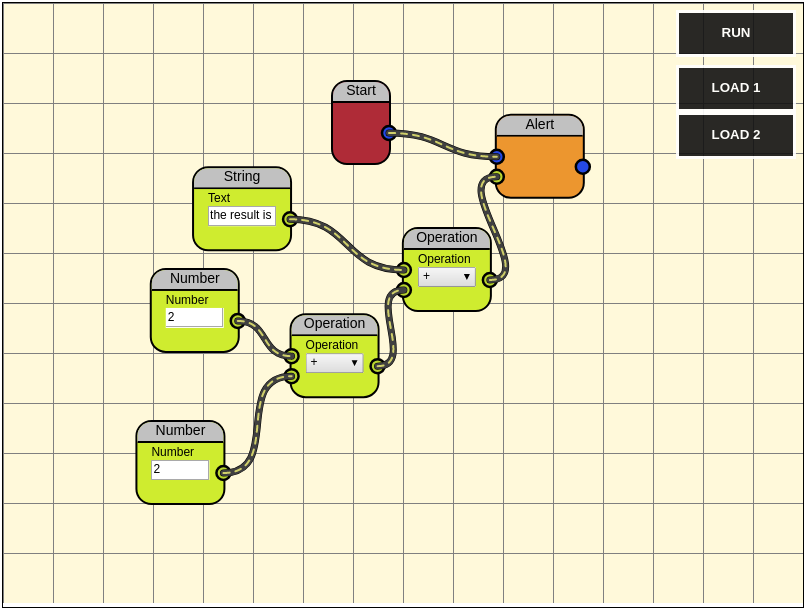
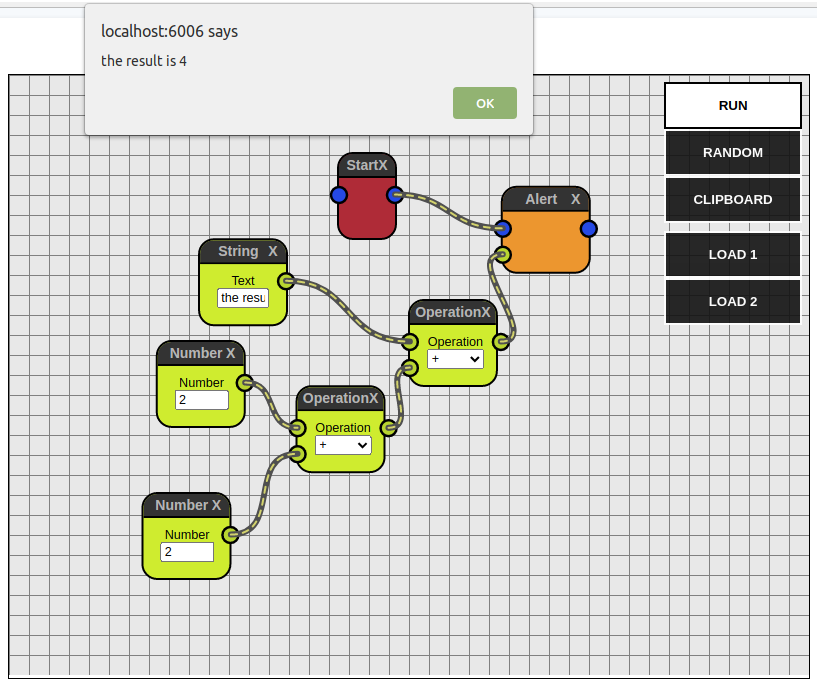
add initial support for nodejs runner

diff --git a/src/nodes/nodejs.ts b/src/nodes/nodejs.ts
@@ -1,0 +1,64 @@
+import { NodeConfig } from '../Node'
+
+const nodeMap: Record<string, NodeConfig> = {
+  'console': {
+    id: 'console',
+    fill: '#F5E867',
+    ports: { data_in: 2, data_out: 0, flow_in: 1, flow_out: 1 },
+    title: 'console',
+    gui: {
+      op: { label: 'action', type: 'select', options: ['log', 'info'] },
+      value: { label: 'value', type: 'text' },
+    },
+    async behavior (findById, { board }) {
+      let op = this.inputs.op;
+      const portConn = this._ports['in'][0].connections[0];
+      const portNode = portConn && findById(portConn.nodeId);
+      if (portNode) {
+        op = portNode.behavior(findById)[portConn.id];
+      }
+
+      let value = JSON.parse(this.inputs.value);
+      const valueConn = this._ports['in'][1].connections[0];
+      const valueNode = valueConn && findById(valueConn.nodeId);
+      if (valueNode) {
+        value = (await valueNode.behavior(findById, { board }))[valueConn.id];
+      }
+
+      console[op](value);
+      return 0;
+    }
+  },
+  'readQuestion': {
+    fill: '#FF8D4F',
+    ports: { data_in: 1, data_out: 1, flow_in: 0, flow_out: 0 },
+    title: 'readQuestion',
+    gui: {
+      message: { label: 'message', type: 'text' },
+    },
+    async behavior (findById, { board }) {
+      let message = this.inputs.message;
+      const portConn = this._ports['in'][0].connections[0];
+      const portNode = portConn && findById(portConn.nodeId);
+      if (portNode) {
+        message = portNode.behavior(findById)[portConn.id];
+      }
+
+      const readline = require('readline');
+      return new Promise(resolve => {
+        const rl = readline.createInterface({
+          input: process.stdin,
+          output: process.stdout
+        });
+
+        rl.question(message, (value) => {
+          rl.on('close', () => resolve([value]));
+          rl.close();
+        });
+      })
+
+    }
+  },
+};
+
+export default nodeMap;

diff --git a/stories/examples.stories.js b/stories/examples.stories.js
@@ -11,11 +11,21 @@ storiesOf('Examples', module)
       <div id="test">
         <Container
           onLoad={canvas => {
-            const initialNodes = ['SourceNumber', 'SourceNumber', 'Alert', 'Sum', 'Operation', 'Operation', 'If', 'SourceString'];
+            const initialNodes = ['SourceNumber', 'SourceNumber', 'Alert', 'Operation', 'Operation', 'If', 'SourceString', 'console', 'readQuestion'];
 
 
             document.getElementById('run').onclick = function() {
               canvas.run();
+            };
+
+            document.getElementById('clipboard').onclick = function() {
+              const json = canvas.toJSON();
+              navigator.clipboard.writeText(JSON.stringify(json, null, 2));
+            };
+
+            document.getElementById('run').onclick = function() {
+              canvas.run();
+              canvas.toJSON();
             };
 
             document.getElementById('random').onclick = function() {
@@ -52,6 +62,7 @@ storiesOf('Examples', module)
       <ul className="button-list">
         <li><button id="run" type="button">run</button></li>
         <li><button id="random" type="button">random</button></li>
+        <li><button id="clipboard" type="button">clipboard</button></li>
         <li className="separator"></li>
         <li><button className="load" type="button" data-index="0">load 1</button></li>
         <li><button className="load" type="button" data-index="1">load 2</button></li>

diff --git a/src/Wirer.ts b/src/Wirer.ts
@@ -6,6 +6,7 @@ import Node from './Node';
 import Render from './Render';
 import BaseWire from './BaseWire';
 import standardNodes from './nodes/standard';
+import nodeJsNodes from './nodes/nodejs';
 import behaviorRunner from './behaviorRunner';
 import { toJSON } from './jsonLoader';
 
@@ -195,4 +196,5 @@ export default class Wirer {
   }
 }
 
-Wirer._refNodes = standardNodes || {};
+// TODO: load nodejs nodes dinamically
+Wirer._refNodes = { ...standardNodes, ...nodeJsNodes };

diff --git a/.storybook/main.js b/.storybook/main.js
@@ -8,6 +8,18 @@ module.exports = {
   },
   webpackFinal: (config) => {
     config.module.rules.push(custom.module.rules[0]);
+    config.resolve.fallback = {
+      "fs": false,
+      "tls": false,
+      "net": false,
+      "path": false,
+      "zlib": false,
+      "http": false,
+      "https": false,
+      "stream": false,
+      "crypto": false,
+      "readline": false,
+    }
     return config;
   },
 };

diff --git a/src/jsonLoader.js b/src/jsonLoader.js
@@ -26,6 +26,5 @@ export const toJSON = (nodes, nodeRefs) => {
   );
 
   const string = JSON.stringify({ refNode, fluxgram }, null, 2);
-  copy(string);
   return JSON.parse(string);
 } 

diff --git a/README.md b/README.md
@@ -7,13 +7,10 @@
 ## Introduction
 **Wirer** is a generalist approach for building user interfaces around the idea of connectable nodes. **Wirer** allows you to customize the UI to better fit your needs via **React** components. You can also create and register your own nodes to achieve the goals of your application and let your users play with it.
 
-## Features
-Apart from handling all node dragging interactions, **Wirer** offers the following features:
-- [Zoom In and Out](http://ja0n.github.io/wirer/?path=/story/features--zoom)
-- [Offset System](http://ja0n.github.io/wirer/?path=/story/features--recenter)
+The **Runner** works both on browser and on Node.js.
 
 ## Examples
-Some examples using **Wirer** to interact with external applications:
+Some examples using **Wirer**:
 ### Alert
 Build the flow to `alert()` a message
 
@@ -24,3 +21,18 @@ Build the flow to guide a box to the target in a minigame
 
 [See live](http://ja0n.github.io/wirer/?path=/story/examples--dumb-box)
 
+## Node Runner
+You can execute the flow `.json` file with the script below:
+```
+> node scripts/run-flow.js ./stories/flows/ask-name.json
+Start node found: <10, start>
+Step 1 <10, start>
+Next Step from port 0: <18, console>
+Step 2 <18, console>
+What's your name?
+```
+
+## Features
+Apart from handling all node dragging interactions, **Wirer** offers the following features:
+- [Zoom In and Out](http://ja0n.github.io/wirer/?path=/story/features--zoom)
+- [Offset System](http://ja0n.github.io/wirer/?path=/story/features--recenter)
